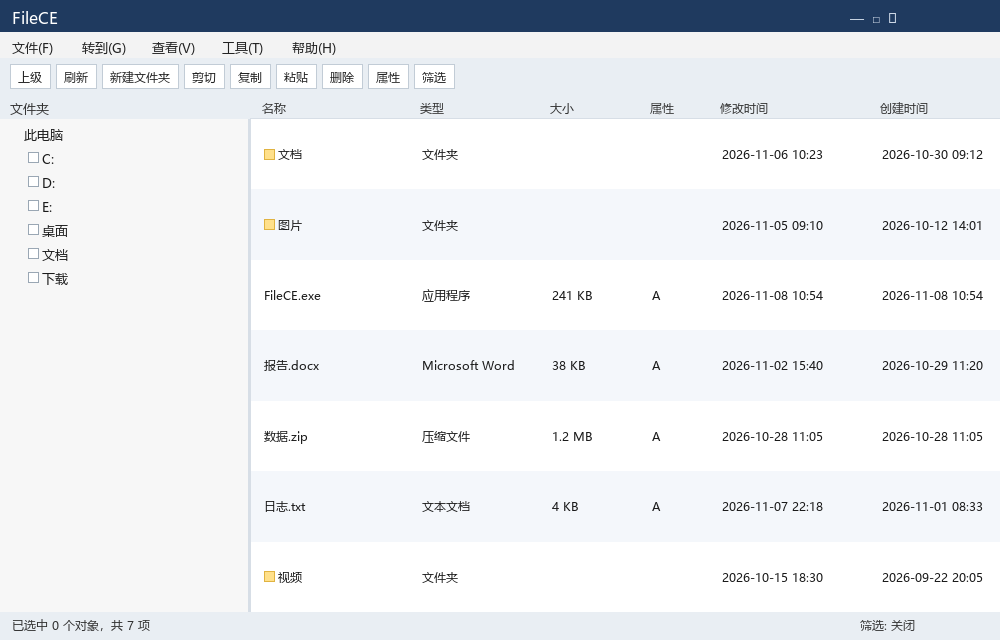
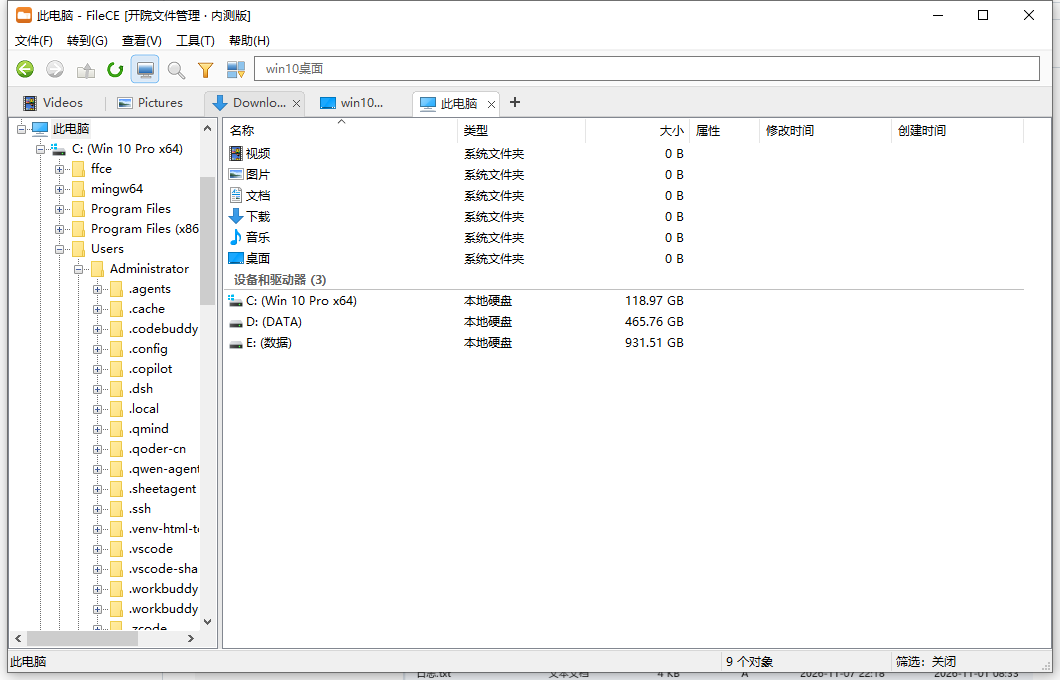
FileCE: 用真实主界面截图替换预览图

diff --git a/README.md b/README.md
@@ -7,7 +7,7 @@
 [![Star 数](https://img.shields.io/github/stars/yjt1688/FileCE?label=stars)](https://github.com/yjt1688/FileCE/stargazers)
 [![开源协议](https://img.shields.io/github/license/yjt1688/FileCE?label=license)](LICENSE)
 
-![主界面预览](docs/screenshot.png)
+![主界面截图](docs/screenshot.png)
 
 ## 功能 / 性能
 
